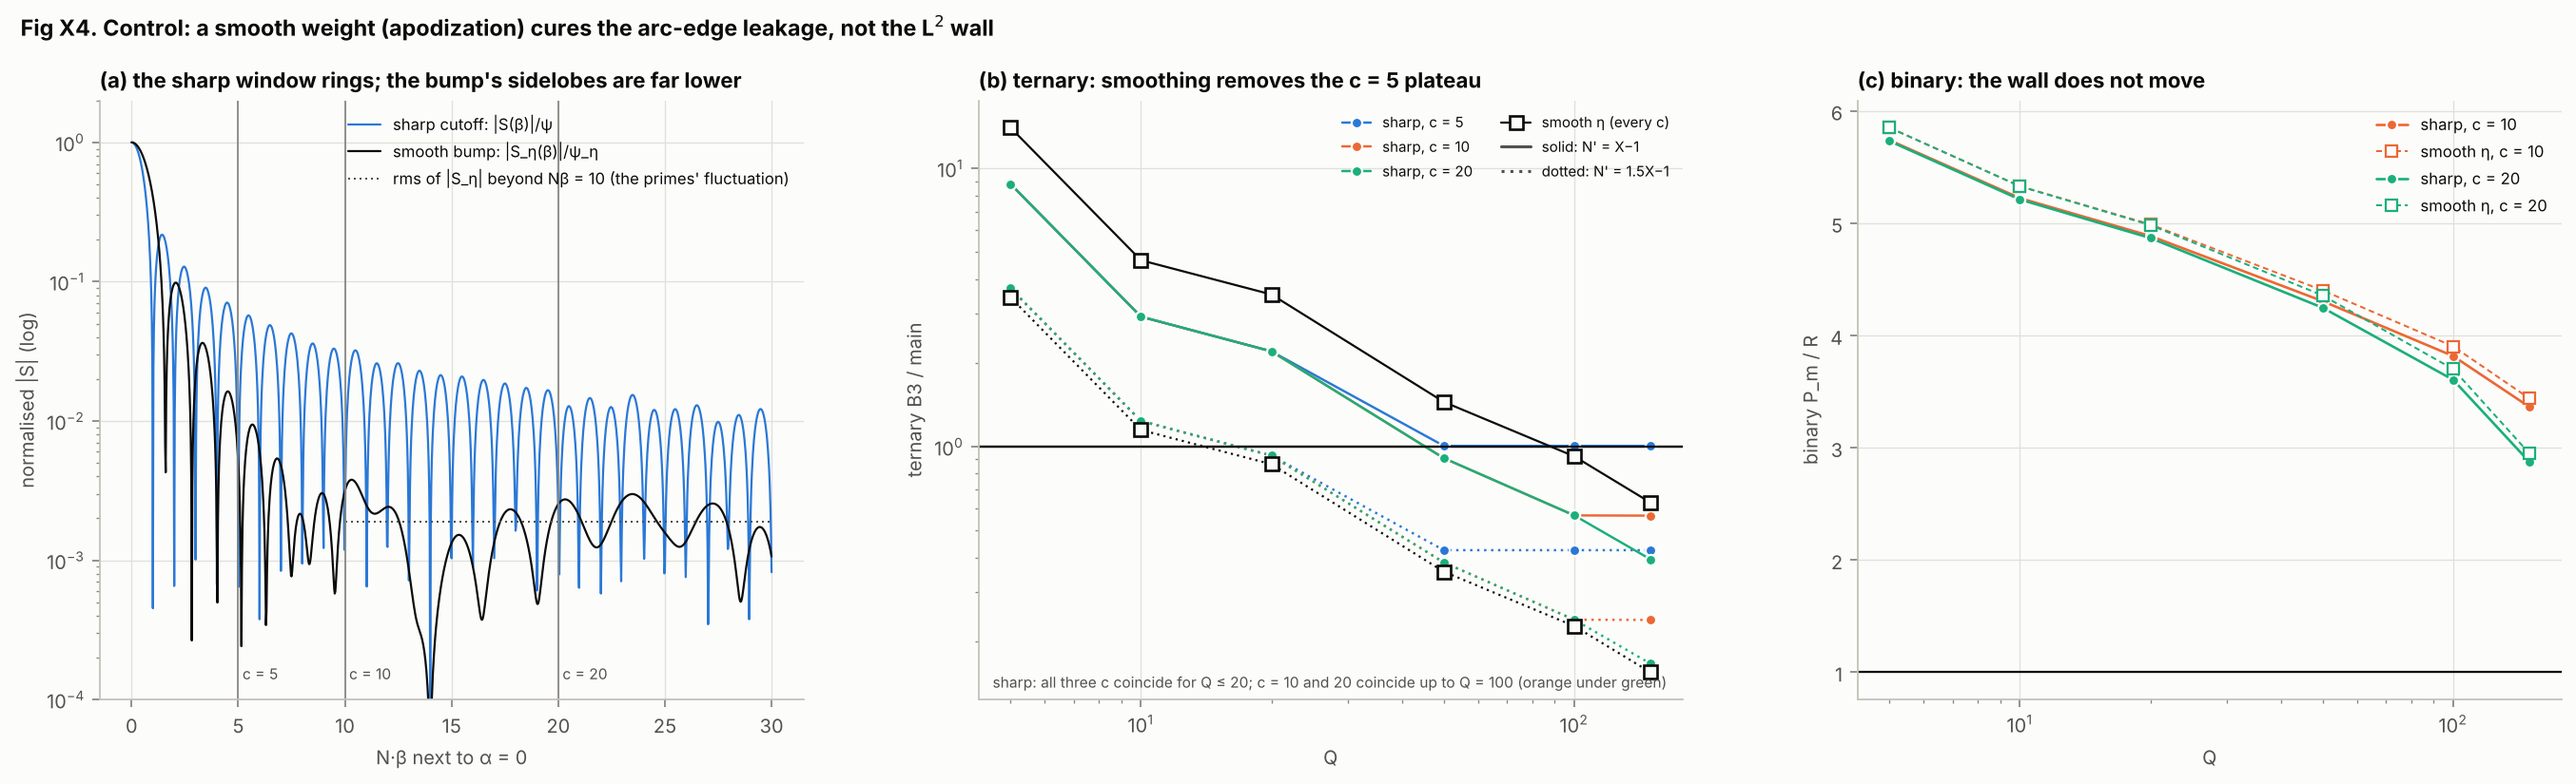
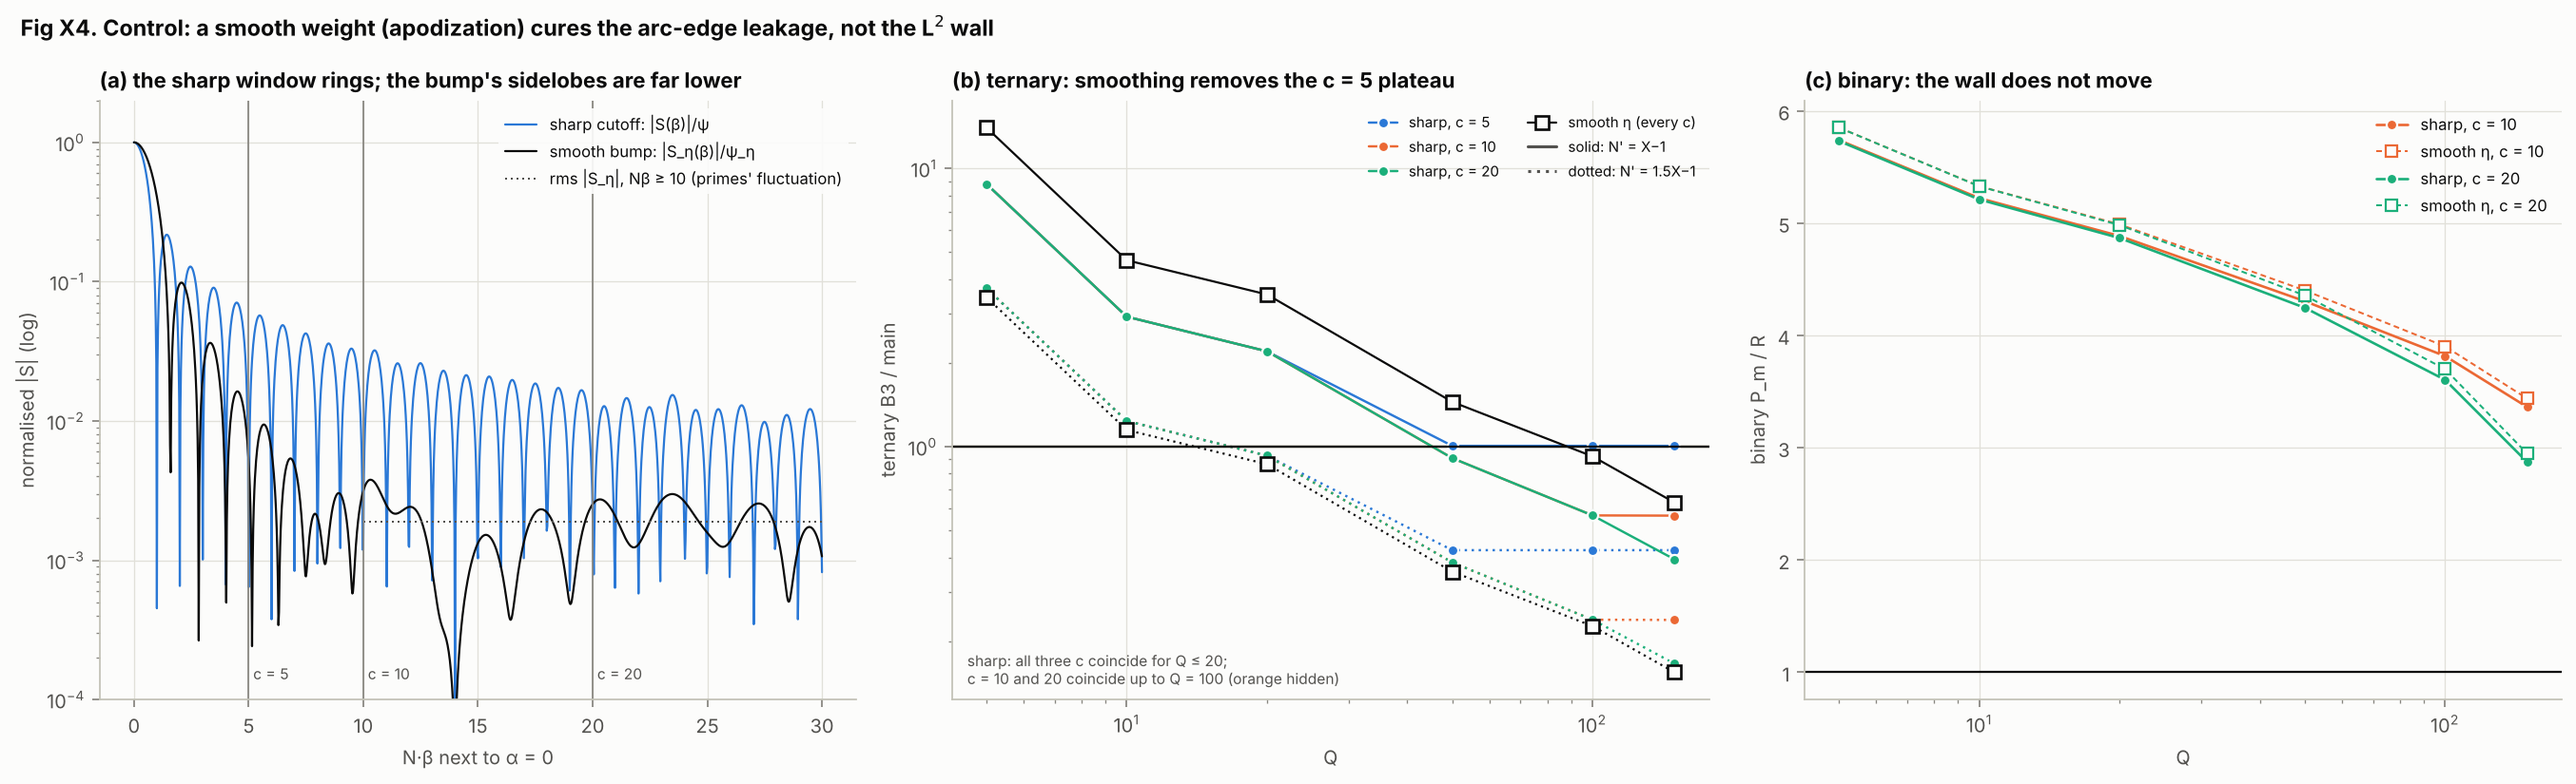
Apply third-round review fixes: E5 wording, figure labels, more tests
Claude-Session: https://claude.ai/code/session_01QD36W6W8wdJTkak1YDjoi6

diff --git a/figures_escapes.py b/figures_escapes.py
@@ -54,7 +54,7 @@ def fig_X0(res, out):
     ins.plot(wk.real * 100, wk.imag * 100, color=BLUE, lw=0.6)
     ins.plot([0], [0], "o", color=INK, ms=3.5)
     ins.plot([wk[-1].real * 100], [wk[-1].imag * 100], "s", color=ORANGE, ms=4)
-    ins.set_xlabel("walk ×100 (● start, ■ end)", fontsize=6.5)
+    ins.set_title("walk ×100 (● start, ■ end)", fontsize=6.5, loc="left", pad=2)
     ins.set_aspect("equal")
     ins.tick_params(labelsize=6)
     ax.legend(loc="upper left", fontsize=6.8)
@@ -169,13 +169,17 @@ def fig_X5(res, out):
                label=f"{len(cl)} targets close (P_m/I_M(N) < 0.99): R2(N) > 0 by magnitudes alone")
     ax.scatter([t[2] for t in ud], [t[1] for t in ud], s=18, facecolor="none", edgecolor=ORANGE, linewidth=1.0, zorder=3,
                label=f"{len(ud)} undecided with ratio in [0.99, 1) (still grid-certified)")
+    hi = (pr >= 1) & (pr <= 1.01)
+    ax.scatter(ss2[hi], pr[hi], s=16, marker="s", facecolor="none", edgecolor=ORANGE, linewidth=0.8, zorder=3,
+               label=f"{int(hi.sum())} undecided with ratio in [1, 1.01] (no grid certificate)")
     for t in res["e5_trunc"]:
         from singular_series import SS2_product
         ax.scatter([SS2_product(t["N"])], [t["ratio"]], s=70, marker="D", facecolor="none", edgecolor=INK, linewidth=1.0,
                    zorder=4)
         if t["ratio"] < 1:
             ax.annotate(f"{t['N']:,}: S cut at N, Q = {t['Q']}", (SS2_product(t["N"]), t["ratio"]), xytext=(-8, -16),
-                        ha="right", textcoords="offset points", fontsize=7, color=INK2)
+                        ha="right", textcoords="offset points", fontsize=7, color=INK2,
+                        bbox=dict(boxstyle="round,pad=0.15", fc=SURF, ec="none", alpha=0.85))
         else:                                   # far from X: lead the label out of the cloud into the empty corner
             ax.annotate(f"{t['N']:,}: S cut at N, Q = {t['Q']}", (SS2_product(t["N"]), t["ratio"]), xytext=(1.45, 1.35),
                         textcoords="data", ha="left", fontsize=7, color=INK2,
@@ -337,7 +341,7 @@ def fig_X4(res, out):
     far = np.asarray(pf["Nbeta"]) >= 10
     rip = float(np.sqrt(np.mean(np.asarray(pf["S_eta"])[far] ** 2)))
     ax.plot([10, 30], [rip, rip], color=INK2, lw=0.9, ls=(0, (1, 2)),
-            label="rms of |S_η| beyond Nβ = 10 (the primes' fluctuation)")
+            label="rms |S_η|, Nβ ≥ 10 (primes' fluctuation)")
     for c in (5, 10, 20):
         ax.axvline(c, color=MUTED, lw=0.8)
         ax.text(c + 0.2, 1.4e-4, f"c = {c}", fontsize=7, color=INK2)
@@ -345,7 +349,7 @@ def fig_X4(res, out):
     ax.set_xlabel("N·β next to α = 0")
     ax.set_ylabel("normalised |S| (log)")
     ax.set_title("(a) the sharp window rings; the bump's sidelobes are far lower")
-    ax.legend(loc="upper right", fontsize=7.5)
+    ax.legend(loc="upper right", fontsize=7.5, frameon=True, framealpha=0.92, edgecolor="none", facecolor=SURF)
     ax = axes[1]
     rows = e4["rows"]
     Qs = [5, 10, 20, 50, 100, 150]
@@ -365,8 +369,8 @@ def fig_X4(res, out):
     ax.set_xlabel("Q")
     ax.set_ylabel("ternary B3 / main")
     ax.set_title("(b) ternary: smoothing removes the c = 5 plateau")
-    ax.text(0.02, 0.02, "sharp: all three c coincide for Q ≤ 20; c = 10 and 20 coincide up to Q = 100 (orange under green)",
-            transform=ax.transAxes, fontsize=7, color=INK2)
+    ax.text(0.02, 0.02, "sharp: all three c coincide for Q ≤ 20;\nc = 10 and 20 coincide up to Q = 100 (orange hidden)",
+            transform=ax.transAxes, fontsize=7, color=INK2, va="bottom")
     ax.legend(loc="upper right", fontsize=6.8, ncol=2)
     ax = axes[2]
     for c, col in ((10, ORANGE), (20, AQUA)):

diff --git a/escapes_report.py b/escapes_report.py
@@ -276,9 +276,11 @@ def sec_e5(res) -> str:
     rows = [[f"{N:,}", fact(N), f"{ss:.3f}", f"{r:.3f}", lab(r)] for N, r, ss in tr]
     m2310 = sum(1 for t in tr if t[0] % 2310 == 0)
     m210 = sum(1 for t in tr if t[0] % 210 == 0)
-    mult = (f"All {len(tr)} are multiples of 210 = 2·3·5·7, {m2310} of them of 2310 = 2·3·5·7·11." if m210 == len(tr)
-            else f"{m210} of the {len(tr)} are multiples of 210 = 2·3·5·7 and {m2310} of 2310 = 2·3·5·7·11.")
     pr = o["pm_ratio_targets"].astype(float)
+    mult = (f"All {len(tr)} targets with P_m < I_M(N) (the closing ones and the undecided ones below 1) are multiples of "
+            f"210 = 2·3·5·7, {m2310} of them of 2310 = 2·3·5·7·11." if m210 == len(tr)
+            else f"Of the {len(tr)} targets with P_m < I_M(N), {m210} are multiples of 210 = 2·3·5·7 and {m2310} of "
+                 f"2310 = 2·3·5·7·11.")
     ss2t = o["SS2_targets"].astype(float)
     ns0 = X // 2 + (X // 2) % 2
     n_cl, n_lo, n_hi = int(np.sum(pr < 0.99)), int(np.sum((pr >= 0.99) & (pr < 1))), int(np.sum((pr >= 1) & (pr <= 1.01)))
@@ -603,7 +605,7 @@ def sec_e4(res) -> str:
     ter = e4["ternary"]
     side = e4["sidelobes"]
     srow = [["max_(ξ>c) |η̂(ξ)|/η̂(0)"] + [_e(side[c]["max_sidelobe"], 1) for c in (5, 10, 20)],
-            ["sharp sidelobe 1/(πc)"] + [_e(side[c]["sharp_sidelobe"], 1) for c in (5, 10, 20)],
+            ["sharp envelope 1/(πc)"] + [_e(side[c]["sharp_sidelobe"], 1) for c in (5, 10, 20)],
             ["binary-kernel tail outside c, η"] + [_e(side[c]["kernel_tail"], 1) for c in (5, 10, 20)],
             ["binary-kernel tail outside c, sharp ≈ 1/(π²c)"] + [_e(side[c]["sharp_tail"], 1) for c in (5, 10, 20)]]
     pe = [rows[p]["P_m_over_R"] for p in res["pairs"]]
@@ -670,6 +672,8 @@ def captions(res, e0x, e1x, e2x, e3x) -> str:
     m2310 = sum(1 for t in tr if t[0] % 2310 == 0)
     m210 = sum(1 for t in tr if t[0] % 210 == 0)
     ncl = sum(1 for t in tr if t[1] < 0.99)
+    pr223 = e1[(223, 10)]["pm_ratio_targets"].astype(float)
+    n_hi = int(np.sum((pr223 >= 1) & (pr223 <= 1.01)))
     pp = [r["joint_ratio"][K + 1] / r["joint_ratio"][K] for K in range(14)]
     rr = ripple_levels(res)
     return f"""## Figures (captions in phasor language)
@@ -704,8 +708,8 @@ does not know which reference will demodulate it. The signal does: at a spike a/
 e(−aN/q), and summed over the φ(q) spikes with denominator q that is the Ramanujan sum c_q(N) — φ(q) when q | N, −1 when
 q is a prime not dividing N. So SS2(N) counts how many locked spikes the reference catches in phase. Multiples of
 2·3·5·7·11 collect about 3.6× the signal of N = 2p against the same wall. At (223,10), {len(tr)} targets have
-P_m < I_M(N) ({ncl} close, below the 0.99 margin; the rest undecided); {m210} of them are multiples of 210 and {m2310} of
-2310. Panel (b): the wall need(X) rises at every step ({", ".join(f"{s['need']:.2f}" for s in sc)}) while the largest
+P_m < I_M(N) ({ncl} close, below the 0.99 margin; the other {len(tr) - ncl} are undecided, as are {n_hi} more with
+ratio in [1, 1.01]); {m210} of the {len(tr)} are multiples of 210 and {m2310} of 2310. Panel (b): the wall need(X) rises at every step ({", ".join(f"{s['need']:.2f}" for s in sc)}) while the largest
 available SS2 rises slowly, so the share of targets with P_m < I_M(N) falls at every step (labels: their counts).
 
 ![Fig X2](figures/fig_X2_linnik.png)

diff --git a/tests/test_escapes.py b/tests/test_escapes.py
@@ -241,3 +241,47 @@ def test_report_decision_margin():
     assert rep.first_close([1.2, 0.995, 0.98, 0.5]) == 2
     assert rep.first_close([0.5, 0.98], start=1) == 1 and rep.first_close([1.0, 1.1]) is None
     assert rep.r3(0.995).endswith("(undecided)") and rep.r3(0.0072) == "0.0072"
+
+
+def test_e5_truncated(small):
+    from sieve import von_mangoldt
+
+    ctx = small["ctx"]
+    N, c = 5000, 10
+    t = es.e5_truncated(None, N, c, ctx.mu, ctx.phi, None)
+    Mt = 2**15                                                    # smallest power of 2 >= 4N
+    assert t["M"] == Mt and t["Q"] == math.isqrt((N - 1) // (2 * c))
+    lam = von_mangoldt(N)
+    S = S_grid(lam, Mt)
+    A = es.MajorArcs(N, Mt, t["Q"], c, ctx.mu, ctx.phi)
+    minor = np.flatnonzero(~A.mask())
+    Pm = float(np.sum(np.abs(S[minor]) ** 2)) / Mt
+    IM = float(np.sum(S[A.idx] ** 2 * e_minus(N, A.idx, Mt)).real) / Mt
+    Im = float(np.sum(S[minor] ** 2 * e_minus(N, minor, Mt)).real) / Mt
+    assert t["P_m"] == pytest.approx(Pm, rel=1e-12) and t["I_M"] == pytest.approx(IM, rel=1e-9)
+    assert IM + Im == pytest.approx(autoconvolve(lam)[N], rel=1e-9)
+    assert t["ratio"] == pytest.approx(t["P_m"] / t["I_M"], rel=1e-12)
+
+
+def test_e5_certificate_uses_the_right_index(small):
+    """A spike in r2 exactly at the transmitted N must certify them; an off-by-one would miss it."""
+    ctx = small["ctx"]
+    SS2e = SS2_even_array(X)
+    o = es.e5_scaling(X, ctx.S.copy(), ctx.lam, ctx.mu, ctx.phi, SS2e, 10)
+    tr = np.array(o["transmitted"])
+    lam_d = np.zeros_like(ctx.lam)
+    lam_d[tr // 2] = 1e4                                          # r2_d(N) >= 1e8 at every transmitted N
+    assert es.e5_scaling(X, ctx.S.copy(), lam_d, ctx.mu, ctx.phi, SS2e, 10)["certificates_ok"]
+
+
+def test_joint_sentence():
+    import escapes_report as rep
+
+    pairs = [(5, 5), (10, 10), (20, 10), (150, 20)]
+    mk = lambda ks: {p: {"joint": k} for p, k in zip(pairs, ks)}  # noqa: E731
+    s = rep.joint_sentence(pairs, mk([2, 1, 1, 1]))
+    assert s == "closes with **one** power of 2 at every Q ≥ 20 and at (10,10), and with two at (5,5)"
+    assert rep.joint_sentence(pairs, mk([2, 2, 1, 1])).endswith("at every Q ≥ 20, and with two at (5,5), (10,10)")
+    assert rep.joint_sentence(pairs, mk([None, 3, 2, 1])) == ("closes with **one** power of 2 at (150,20), and with two "
+                                                              "at (20,10); (5,5), (10,10) need more")
+    assert "no pair" in rep.joint_sentence(pairs, mk([2, 2, 2, 2]))

diff --git a/escapes.md b/escapes.md
@@ -212,7 +212,7 @@ both: the targets with the largest singular series are too small and still fail 
 target closes (990,990: 0.968) and 3 are undecided
 (960,960: 0.997, 981,750: 0.999, 930,930: 1.009). At (223,10) **16** close and 11 are undecided
 (5 with ratio in [0.99, 1), still grid-certified, and 6 in [1, 1.01]); the closest failing target has
-P_m/I_M(N) = 1.011. All 21 are multiples of 210 = 2·3·5·7, 16 of them of 2310 = 2·3·5·7·11. For N = 10^6 itself (SS2 = 1.76) the ratio is
+P_m/I_M(N) = 1.011. All 21 targets with P_m < I_M(N) (the closing ones and the undecided ones below 1) are multiples of 210 = 2·3·5·7, 16 of them of 2310 = 2·3·5·7·11. For N = 10^6 itself (SS2 = 1.76) the ratio is
 2.90 at (150,20) and 2.65 at (223,10).
 
 Targets with P_m < I_M(N) at (223,10), best margin first:
@@ -520,7 +520,7 @@ per N′; sharp for c = 5 / 10 / 20:
 |  | c = 5 | c = 10 | c = 20 |
 |:---|---:|---:|---:|
 | max_(ξ>c) \|η̂(ξ)\|/η̂(0) | 9.0e-3 | 1.4e-3 | 8.1e-5 |
-| sharp sidelobe 1/(πc) | 6.4e-2 | 3.2e-2 | 1.6e-2 |
+| sharp envelope 1/(πc) | 6.4e-2 | 3.2e-2 | 1.6e-2 |
 | binary-kernel tail outside c, η | 1.1e-4 | 2.7e-6 | 1.2e-8 |
 | binary-kernel tail outside c, sharp ≈ 1/(π²c) | 2.0e-2 | 1.0e-2 | 5.1e-3 |
 
@@ -573,8 +573,8 @@ does not know which reference will demodulate it. The signal does: at a spike a/
 e(−aN/q), and summed over the φ(q) spikes with denominator q that is the Ramanujan sum c_q(N) — φ(q) when q | N, −1 when
 q is a prime not dividing N. So SS2(N) counts how many locked spikes the reference catches in phase. Multiples of
 2·3·5·7·11 collect about 3.6× the signal of N = 2p against the same wall. At (223,10), 21 targets have
-P_m < I_M(N) (16 close, below the 0.99 margin; the rest undecided); 21 of them are multiples of 210 and 16 of
-2310. Panel (b): the wall need(X) rises at every step (2.96, 3.33, 3.77, 4.19, 4.67, 4.90) while the largest
+P_m < I_M(N) (16 close, below the 0.99 margin; the other 5 are undecided, as are 6 more with
+ratio in [1, 1.01]); 21 of the 21 are multiples of 210 and 16 of 2310. Panel (b): the wall need(X) rises at every step (2.96, 3.33, 3.77, 4.19, 4.67, 4.90) while the largest
 available SS2 rises slowly, so the share of targets with P_m < I_M(N) falls at every step (labels: their counts).
 
 ![Fig X2](figures/fig_X2_linnik.png)
